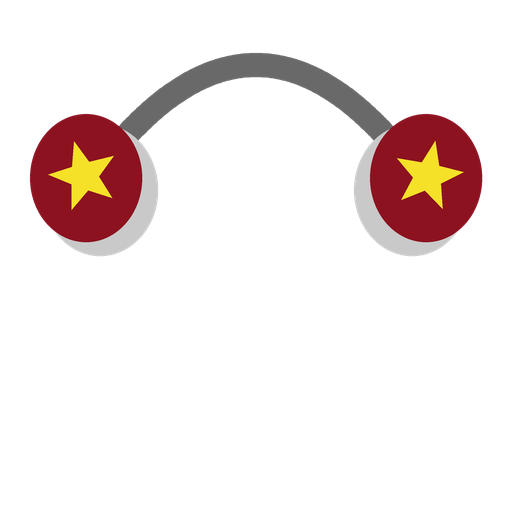
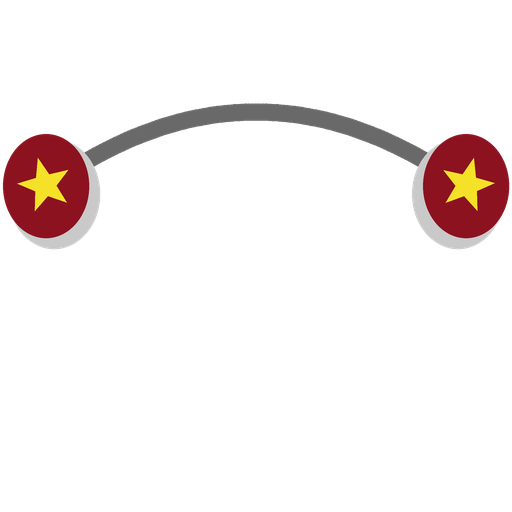
Release v1.30.1 — cursor hotspot fix (#62), shop name readability (#63), Star Earmuffs art correction

Changed region(s): [[0.0, 0.0938, 1.0, 0.5]]

diff --git a/plugin/NativeUI.cs b/plugin/NativeUI.cs
@@ -3235,12 +3235,27 @@ lbBlockRow=new GameObject("BlockRow");lbBlockRow.transform.SetParent(right.trans
             }
         }
 
+        // Bug #63: shop-item NAME colors get a lightness floor so dark preview
+        // colors (deep map-skin hues) stay readable on the dark panel.
+        private static string ReadableNameColor(string hex)
+        {
+            if (string.IsNullOrEmpty(hex)) return "#FFFFFF";
+            Color c;
+            if (!ColorUtility.TryParseHtmlString(hex.StartsWith("#") ? hex : "#" + hex, out c)) return "#FFFFFF";
+            float lum = 0.299f * c.r + 0.587f * c.g + 0.114f * c.b;
+            if (lum < 0.45f) c = Color.Lerp(c, Color.white, (0.45f - lum) / 0.45f * 0.8f);
+            return "#" + ColorUtility.ToHtmlStringRGB(c);
+        }
+
         private static void ApplyShopRow(ShopRow r, ApiClient.ShopItemData it, int balance, ApiClient.PlayerStatsData s)
         {
             r.itemId = it.id;
             r.sku = it.sku;
             r.kind = it.kind;
-            string col = string.IsNullOrEmpty(it.preview_color) ? "#FFFFFF" : it.preview_color;
+            // Bug #63 (lopidav): dark preview colors made some NAMES unreadable on
+            // the dark panel — floor the name color's lightness (swatches/art
+            // elsewhere keep the true color).
+            string col = ReadableNameColor(it.preview_color);
             // Item 9: artist credit inline — makes the by-artist grouping legible.
             string artistTag = !string.IsNullOrEmpty(it.artist_name) ? $"  <color=#7FE8C3>by {it.artist_name}</color>" : "";
             UIFactory.SetText(r.txtName, $"<color={col}>{it.name}</color>  <color=#888>({it.rarity})</color>{artistTag}");

diff --git a/plugin/CursorColorCosmetic.cs b/plugin/CursorColorCosmetic.cs
@@ -116,7 +116,12 @@ namespace CompetitiveRounds
                         _activeSku = "default|" + (sku ?? "");
                         _activeColor = ParseHex(hex, Color.white);
                         _activeTex = vanillaTinted;
-                        _activeHotspot = new Vector2(1f, 1f);
+                        // Bug #62 (lopidav): ROUNDS' vanilla cursor is a TARGET /
+                        // crosshair icon ('streamline-icon-cursor-target-1@32x32'),
+                        // so its hotspot is the CENTER — a (1,1) arrow-style
+                        // hotspot put the real click point at the crosshair's
+                        // top-left corner.
+                        _activeHotspot = new Vector2(vanillaTinted.width / 2f, vanillaTinted.height / 2f);
                         Cursor.SetCursor(_activeTex, _activeHotspot, CursorMode.Auto);
                         return;
                     }

diff --git a/plugin/Plugin.cs b/plugin/Plugin.cs
@@ -21,7 +21,7 @@ namespace CompetitiveRounds
     {
         public const string ModId = "com.competitiverounds.mod";
         public const string ModName = "Competitive ROUNDS";
-        public const string ModVersion = "1.30.0";
+        public const string ModVersion = "1.30.1";
         public const string RequiredGameVersion = "1.1.2";
 
         internal static ManualLogSource Log;

diff --git a/backend/api/main.py b/backend/api/main.py
@@ -893,7 +893,7 @@ async def health_check(db: AsyncSession = Depends(get_db)):
         return HealthResponse(status="degraded", database="disconnected")
 
 
-LATEST_MOD_VERSION = "1.30.0"
+LATEST_MOD_VERSION = "1.30.1"
 
 @app.get("/api/v1/mod-version", tags=["System"])
 async def get_mod_version():

diff --git a/docs/CHANGELOG.md b/docs/CHANGELOG.md
@@ -1,5 +1,12 @@
 # Sid's Competitive Rounds — Changelog
 
+## v1.30.1 — RELEASED 2026-07-12 (same-day patch)
+
+- **Bug #62 (lopidav) — cursor click point offset**: ROUNDS' vanilla cursor is a target/crosshair icon (`streamline-icon-cursor-target-1@32x32`) whose hotspot is its CENTER; the tinted default-shape cursor shipped with an arrow-style top-left hotspot, so the actual click landed at the crosshair's top-left corner. Hotspot now = texture center.
+- **Bug #63 (lopidav) — unreadable dark shop names**: item NAME colors get a lightness floor (dark hues lerped toward white); swatches/art keep the true color.
+- **Star Earmuffs art corrected** — the artist's intended composition (wider flat band, muffs at the edges, larger stars).
+- Build hygiene: shipped DLLs are deterministic and symbol-free.
+
 ## v1.30.0 — RELEASED 2026-07-12
 
 The biggest release since ranked launched. Everything under the `v1.30.0-dev` sections below shipped in this version; highlights:
